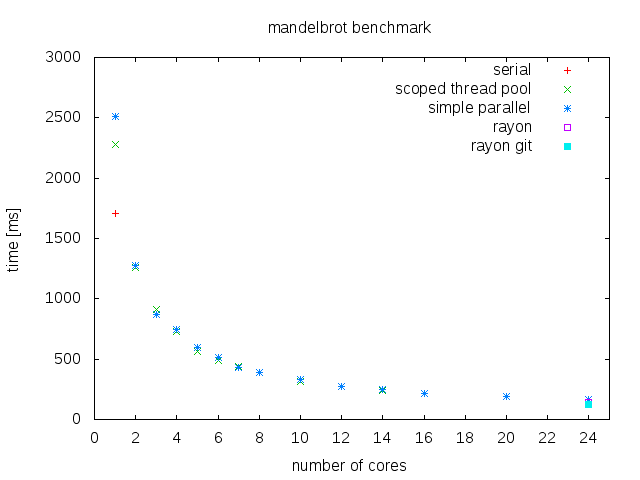
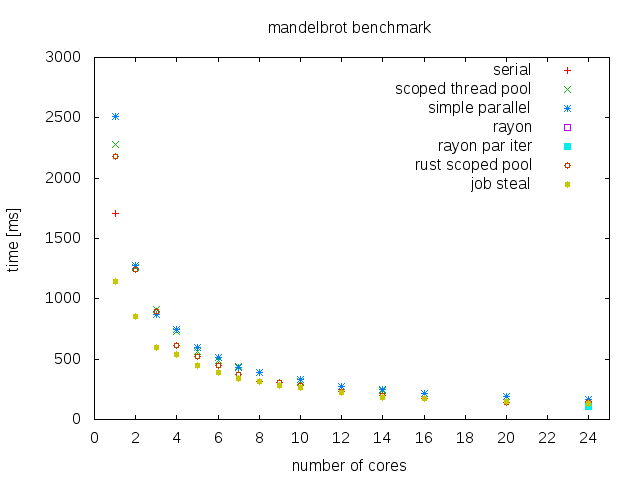
added new plots and benchmark results

diff --git a/README.md b/README.md
@@ -29,12 +29,16 @@ Supported command line options:
         --re1 <REAL1>                        left real part (default: -2.0)
         --re2 <REAL2>                        right real part (default: 1.0)
 
-The main program runs the calculation 4 times: 1 x single threaded and currently 3 x multi threaded.
+The main program runs the calculation 7 times: 1 x single threaded and currently 6 x multi threaded.
 It writes the mandelbrot set out as PPM image files. For each method one image file is created.
 
 To check if all the images are equal (and thus that all the computations are correct) you can use this command:
 
     for i in *.ppm; do md5sum $i; done
+
+Or even better:
+
+    for i in *.ppm; do md5sum $i; done | cut -c1-32 | uniq
 
 (This works only if the flag `--write_metadata` has not been set)
 
@@ -61,9 +65,7 @@ Measured on a Transtec server with the following specs:
 ![mandelbrot benchmark plot](plot/mandel_bench.png)
 
 
-(Note1: that not all number of cores have been run in the benchmark)
-
-(Note2: currently the machine is occupied, I'll update the plots and numbers later)
+(Note: that not all number of cores have been run in the benchmark)
 
 Method | Number of threads | Time taken (in ms)
 -------|-------------------|------------------------
@@ -75,11 +77,19 @@ simple parallel | 1 | 2508.58119
 simple parallel | 8 | 389.50966
 simple parallel | 24 | 161.75248
 rayon* 0.2 | 24 | 127.69423
+rayon_par_iter* 0.2 | 24 | 106.66261
+rust_scoped_pool | 1 | 2178.49247
+rust_scoped_pool | 8 | 318.91450
+rust_scoped_pool | 24 | 141.91438
+job_steal | 1 | 1143.25212
+job_steal | 8 | 314.39410
+job_steal | 24 | 135.46289
 
 (*) Note that rayon uses whatever number of cores are available at the moment.
 
 With just using one thread the overhead for both scoped thread pool and simple parallel is too high and thus both are slower than the serial version.
 Using all cores (including virtual one due to hyper threading) rayon is the fastest method. Is uses explicit work stealing to utilize all the cores more efficiently.
+The job_steal crate also does a good job. rayon_par_iter is currently the fastest method.
 
 # TODO:
 - [ ] Check [ArrayFire](https://github.com/arrayfire/arrayfire-rust)
@@ -92,5 +102,9 @@ Using all cores (including virtual one due to hyper threading) rayon is the fast
 - [ ] Check [rust-stm](https://github.com/Marthog/rust-stm)
 - [ ] Use rust-fmt on source code (Thanks to matklad)
 - [ ] Check docopt (instead of clap ? Thanks to matklad)
+
+- [ ] Automate benchmark: re-run each test multiple times (user specified command line argument) and take the average
+- [ ] Automate benchmark: write all results to text files and make a nice plot
+
 
 Any feedback is welcome!
